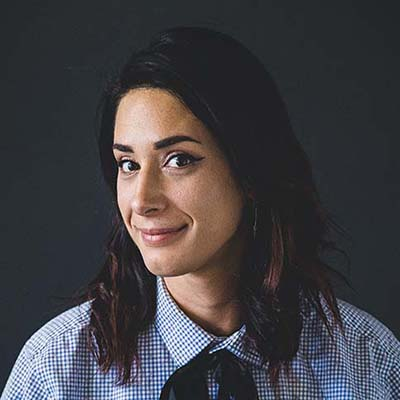
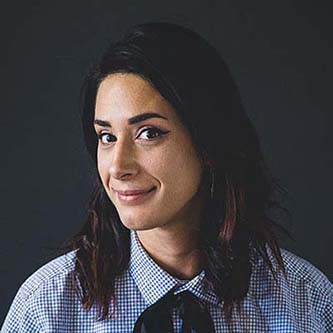
load faster

diff --git a/finalsite/index.html b/finalsite/index.html
@@ -68,9 +68,9 @@
 
 
         <div class="pgtophome">
-            <img class="home1" src="images/domeabove.jpg" alt="Dome Overhead">
-            <img class="home2" src="images/domefront.jpg" alt="Dome Front">
-            <img class="home3" src="images/cityview.jpg" alt="Riverton Suburbs">
+            <img class="home1" src="images/domeabove.jpg" alt="Dome Overhead" loading="lazy">
+            <img class="home2" src="images/domefront.jpg" alt="Dome Front" loading="lazy">
+            <img class="home3" src="images/cityview.jpg" alt="Riverton Suburbs" loading="lazy">
         </div>
 
         <!--<div class="pgtop">
@@ -87,7 +87,7 @@
                 <p>To provide support, unity, and opportunities for growth for the small buisnesses of Riverton</p>
             </div>
             <div class="join">
-                <h2>Want to become part of an organization of small buisnesses?</h2>
+                <h2>Want to become part of an organization of small businesses?</h2>
                 <h2>Become a member!</h2>
                 <button class="joinbtn" onclick="window.location.href='join.html'">Join Today</button>
             </div>
@@ -143,9 +143,9 @@
 
         <section class="contact">
             <h2>Contact Us</h2>
-            <a class="mediaicon" href="https://www.facebook.com/" target="_blank"><img src="images/facebook.png" alt=""></a>
-            <a class="mediaicon" href="https://www.instagram.com/" target="_blank"><img src="images/insta.png" alt=""></a>
-            <a class="mediaicon" href="https://www.twitter.com/" target="_blank"><img src="images/twitter.png" alt=""></a>
+            <a class="mediaicon" href="https://www.facebook.com/" target="_blank"><img src="images/facebook.png" alt="Facebook" loading="lazy"></a>
+            <a class="mediaicon" href="https://www.instagram.com/" target="_blank"><img src="images/insta.png" alt="Instagram" loading="lazy"></a>
+            <a class="mediaicon" href="https://www.twitter.com/" target="_blank"><img src="images/twitter.png" alt="Twitter" loading="lazy"></a>
             <div class="address">
                 <h3>Address:</h3>
                 <p>Commerce Center</p>

diff --git a/finalsite/city.html b/finalsite/city.html
@@ -107,7 +107,8 @@
         </p>
         <p>Source: <a href="https://en.wikipedia.org/wiki/Riverton,_Utah" target="_blank">Wikipedia</a></p>
 
-    
+        <img class="towndaypics" src="images/towndays.png" alt="Riverton Town Days" loading="lazy">
+
         <section class="currevents">
         <h2>Current Events</h2>
         <p>
@@ -116,12 +117,11 @@
         <p>Source: <a href="https://www.rivertonutah.gov/towndays/index.php" target="_blank">Rivertonutah.gov</a></p>
         </section>
     
-        <img class="towndaypics" src="images/towndays.png" alt="Riverton Town Days" loading="lazy">
         <section class="contact">
             <h2>Contact Us</h2>
-            <a class="mediaicon" href="https://www.facebook.com/" target="_blank"><img src="images/facebook.png" alt=""></a>
-            <a class="mediaicon" href="https://www.instagram.com/" target="_blank"><img src="images/insta.png" alt=""></a>
-            <a class="mediaicon" href="https://www.twitter.com/" target="_blank"><img src="images/twitter.png" alt=""></a>
+            <a class="mediaicon" href="https://www.facebook.com/" target="_blank"><img src="images/facebook.png" alt="Facebook" loading="lazy"></a>
+            <a class="mediaicon" href="https://www.instagram.com/" target="_blank"><img src="images/insta.png" alt="Instagram" loading="lazy"></a>
+            <a class="mediaicon" href="https://www.twitter.com/" target="_blank"><img src="images/twitter.png" alt="Twitter" loading="lazy"></a>
             <div class="address">
                 <h3>Address:</h3>
                 <p>Commerce Center</p>

diff --git a/finalsite/contact.html b/finalsite/contact.html
@@ -77,10 +77,10 @@
 
         <div class="contacttop">
         <section class="contact">
-        <h2>Contact Information</h2>
-        <a class="mediaicon" href="https://www.facebook.com/" target="_blank"><img src="images/facebook.png" alt=""></a>
-        <a class="mediaicon" href="https://www.instagram.com/" target="_blank"><img src="images/insta.png" alt=""></a>
-        <a class="mediaicon" href="https://www.twitter.com/" target="_blank"><img src="images/twitter.png" alt=""></a>
+            <h2>Contact Information</h2>
+            <a class="mediaicon" href="https://www.facebook.com/" target="_blank"><img src="images/facebook.png" alt="Facebook" loading="lazy"></a>
+            <a class="mediaicon" href="https://www.instagram.com/" target="_blank"><img src="images/insta.png" alt="Instagram" loading="lazy"></a>
+            <a class="mediaicon" href="https://www.twitter.com/" target="_blank"><img src="images/twitter.png" alt="Twitter" loading="lazy"></a>
             <div class="address">
                 <h3>Address:</h3>
                 <p>Commerce Center</p>

diff --git a/finalsite/join.html b/finalsite/join.html
@@ -132,9 +132,9 @@
 
             <section class="contact">
                 <h2>Contact Us</h2>
-                <a class="mediaicon" href="https://www.facebook.com/" target="_blank"><img src="images/facebook.png" alt=""></a>
-                <a class="mediaicon" href="https://www.instagram.com/" target="_blank"><img src="images/insta.png" alt=""></a>
-                <a class="mediaicon" href="https://www.twitter.com/" target="_blank"><img src="images/twitter.png" alt=""></a>
+                <a class="mediaicon" href="https://www.facebook.com/" target="_blank"><img src="images/facebook.png" alt="Facebook" loading="lazy"></a>
+                <a class="mediaicon" href="https://www.instagram.com/" target="_blank"><img src="images/insta.png" alt="Instagram" loading="lazy"></a>
+                <a class="mediaicon" href="https://www.twitter.com/" target="_blank"><img src="images/twitter.png" alt="Twitter" loading="lazy"></a>
                 <div class="address">
                     <h3>Address:</h3>
                     <p>Commerce Center</p>

diff --git a/finalsite/directory.html b/finalsite/directory.html
@@ -79,9 +79,9 @@
 
         <section class="contact">
             <h2>Contact Us</h2>
-            <a class="mediaicon" href="https://www.facebook.com/" target="_blank"><img src="images/facebook.png" alt=""></a>
-            <a class="mediaicon" href="https://www.instagram.com/" target="_blank"><img src="images/insta.png" alt=""></a>
-            <a class="mediaicon" href="https://www.twitter.com/" target="_blank"><img src="images/twitter.png" alt=""></a>
+            <a class="mediaicon" href="https://www.facebook.com/" target="_blank"><img src="images/facebook.png" alt="Facebook" loading="lazy"></a>
+            <a class="mediaicon" href="https://www.instagram.com/" target="_blank"><img src="images/insta.png" alt="Instagram" loading="lazy"></a>
+            <a class="mediaicon" href="https://www.twitter.com/" target="_blank"><img src="images/twitter.png" alt="Twitter" loading="lazy"></a>
             <div class="address">
                 <h3>Address:</h3>
                 <p>Commerce Center</p>

diff --git a/finalsite/css/medium.css b/finalsite/css/medium.css
@@ -65,6 +65,11 @@
         margin: auto;
     }
 
+    .towndaypics {
+        width: 50%;
+        float: right;
+    }
+
     .boardofd {
         display:grid;
         grid-template-columns: 50% 50%;

diff --git a/finalsite/css/large.css b/finalsite/css/large.css
@@ -43,6 +43,6 @@ form label.sbs {
     max-width: 230px;
 }
 
--------- FOOTER --------------*/
+/*-------- FOOTER --------------*/
     
 } /* end of media query */
